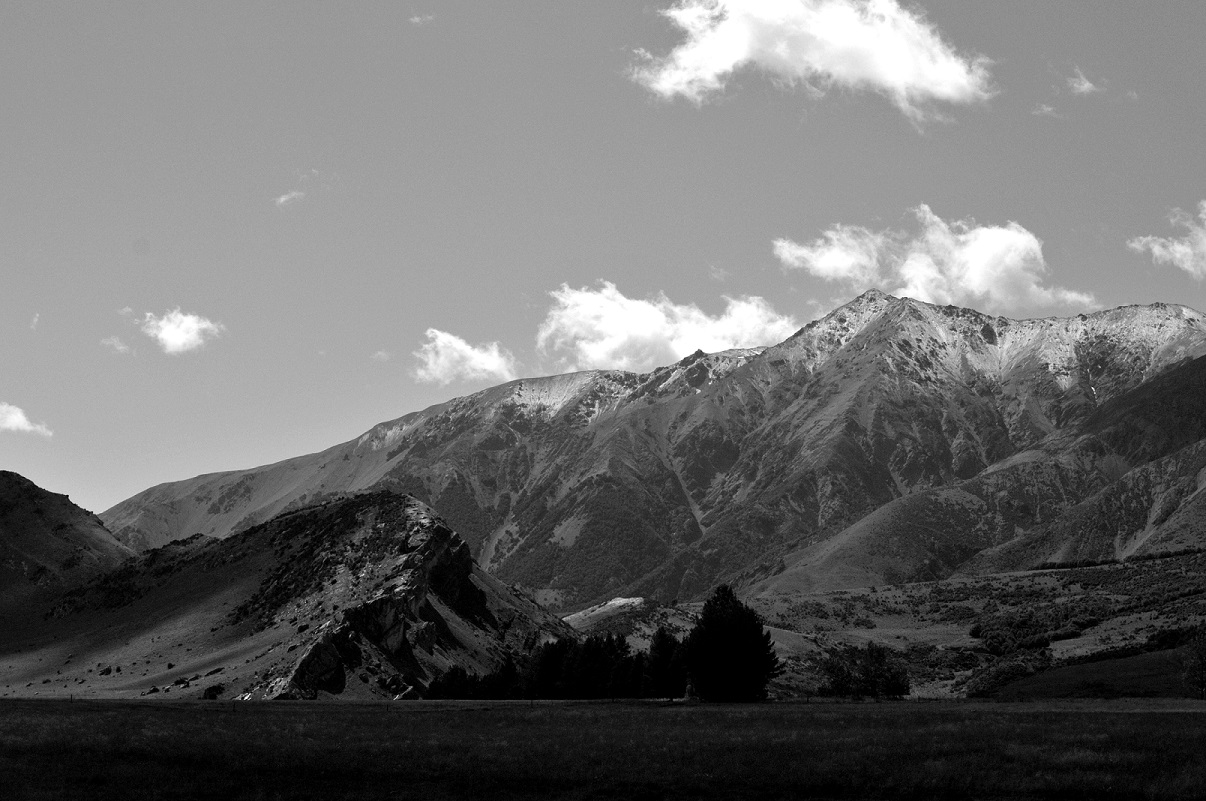
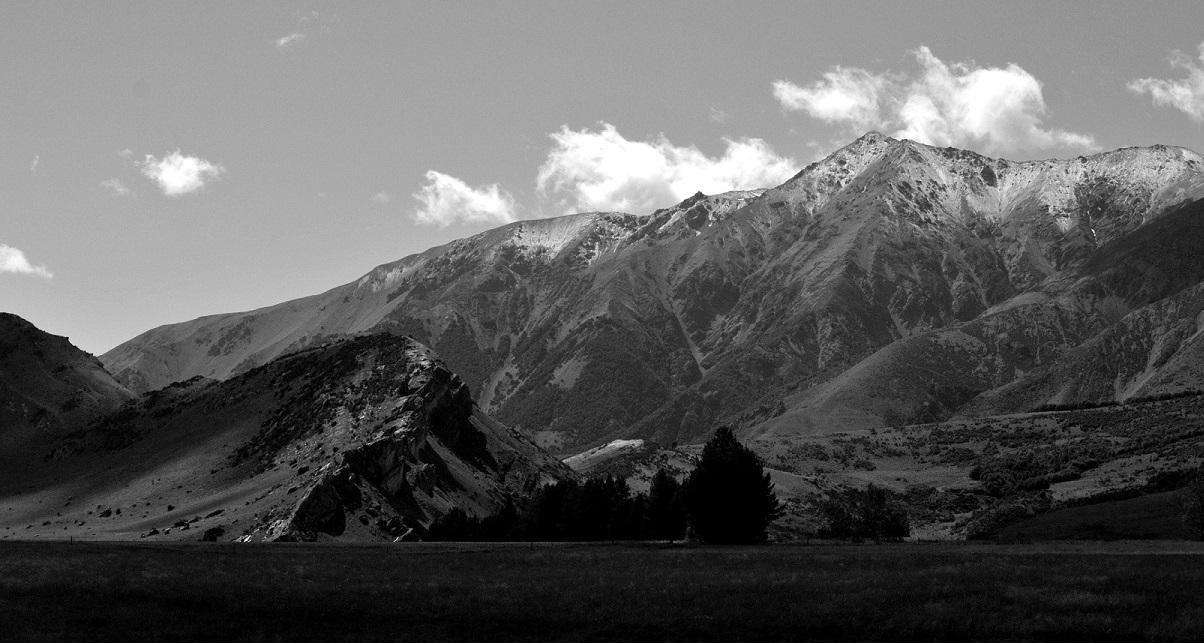
Resized intro-bg.jpg

diff --git a/css/style.css b/css/style.css
@@ -166,6 +166,10 @@ a:focus {
     .intro .intro-body .intro-text {
         font-size: 25px;
     }
+    
+    .intro .intro-body .intro-heading {
+        text-shadow: none;
+    }
 }
 
 .btn-circle {
